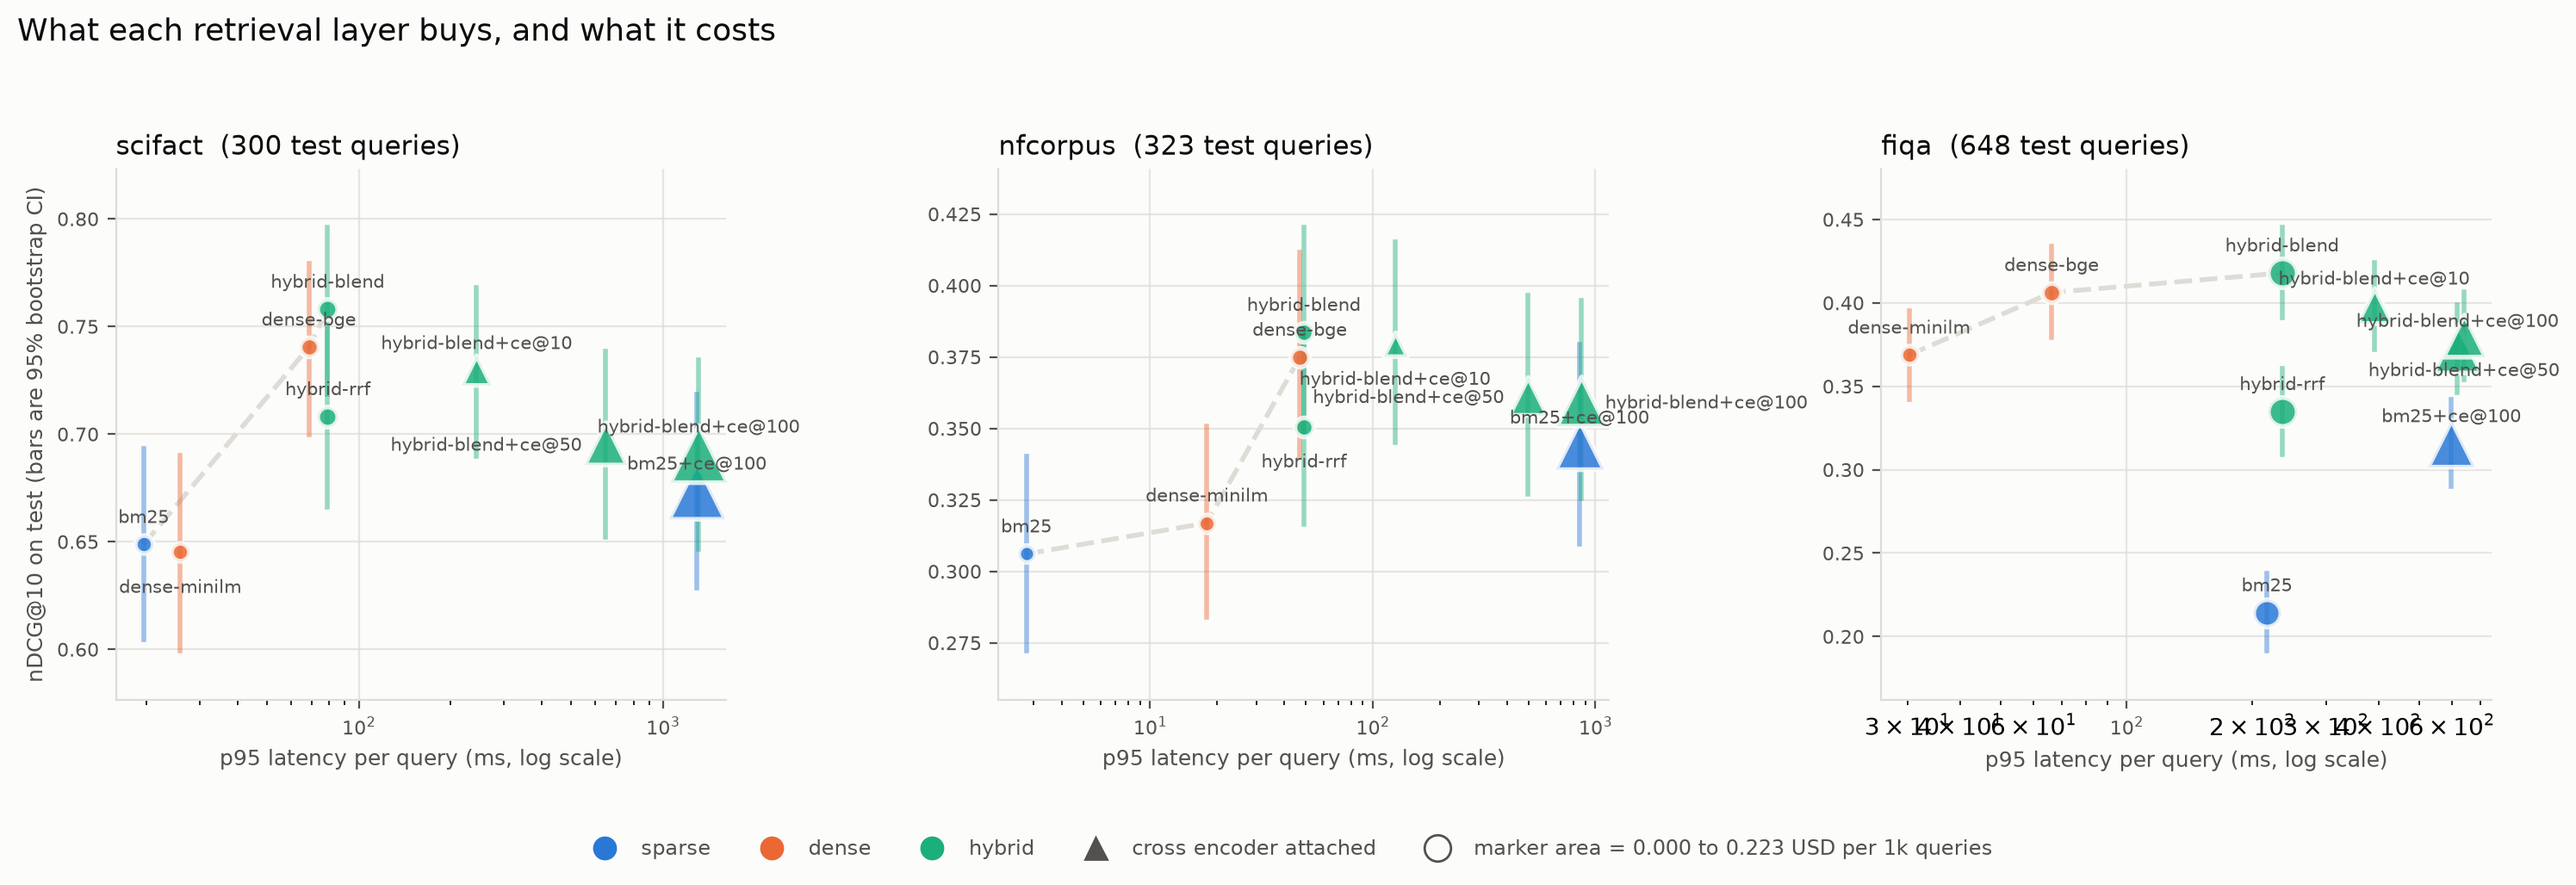
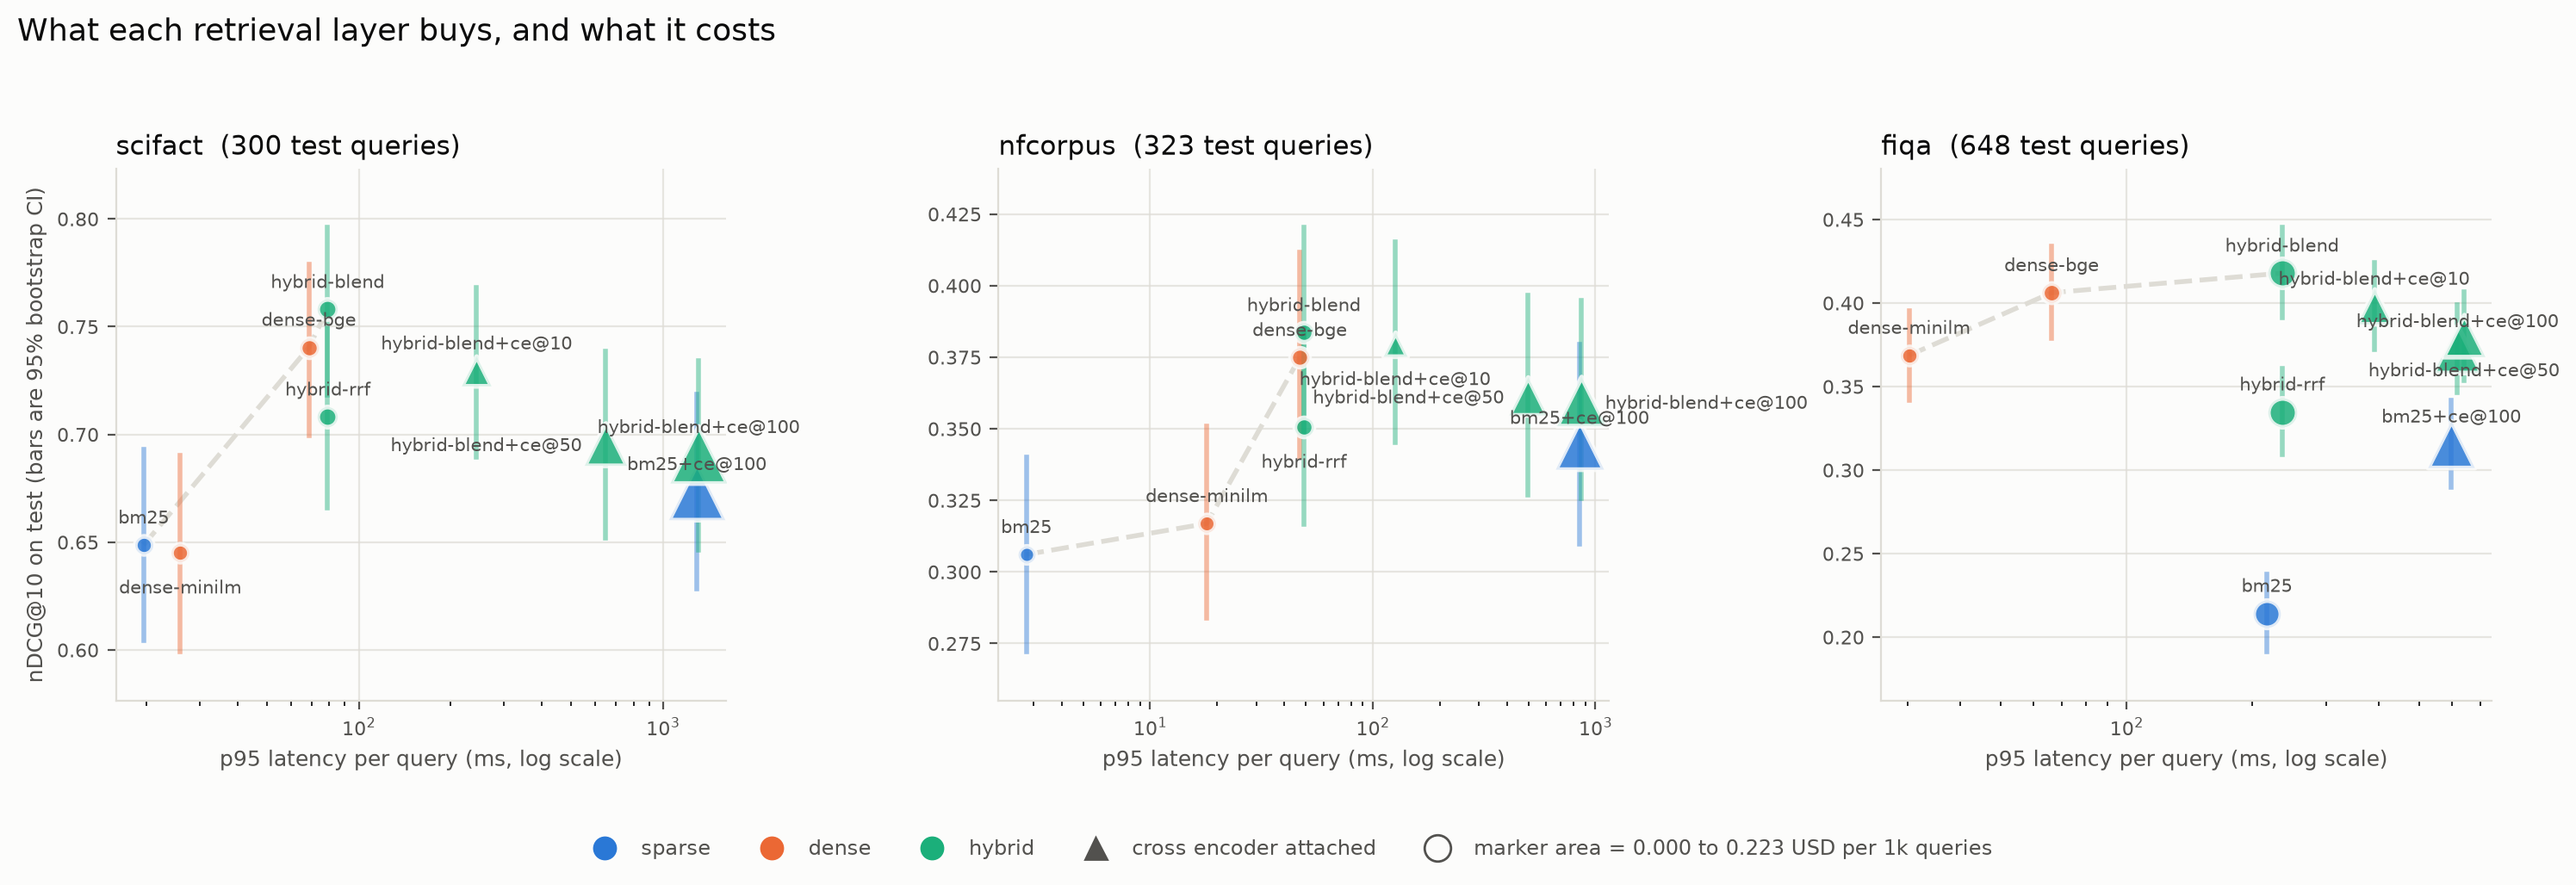
Suppress log axis minor tick labels that collided into a smear on fiqa

diff --git a/src/08_figures.py b/src/08_figures.py
@@ -105,6 +105,9 @@ def hero(results, latency):
                 linewidth=2, linestyle="--", zorder=1)
 
         ax.set_xscale("log")
+        # Minor tick labels collide into an unreadable smear when an axis spans
+        # only a decade or two, which is exactly the range here.
+        ax.xaxis.set_minor_formatter(matplotlib.ticker.NullFormatter())
         ax.set_xlabel("p95 latency per query (ms, log scale)", fontsize=9, color=INK_2)
         ax.set_title(f"{ds}  ({results[ds]['test']['queries']} test queries)",
                      fontsize=11, color=INK, loc="left")
